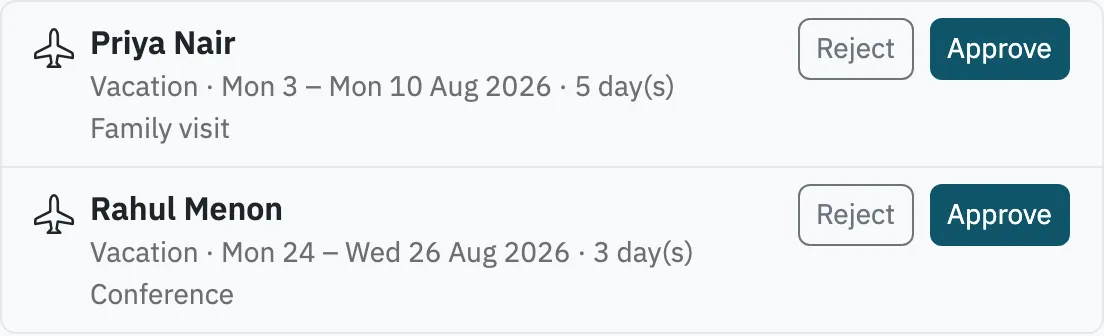
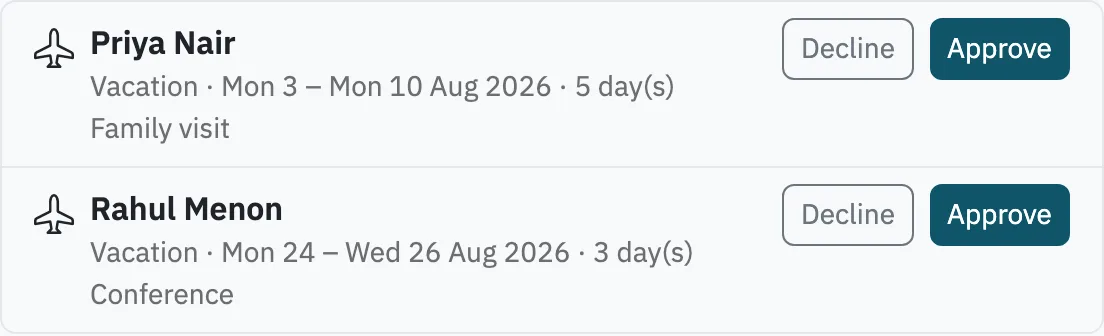
fix: say Decline, not Reject, in the leave approval UI
BRAND §3.2: the same stored value reads as Decline to a colleague. The
approve/decline button and dialog, the Declined status badge, the toast,
the admin notification label and the employee email now say Decline; the
REJECTED value, URLs and codes are unchanged.

Regenerate the site and README screenshots to match, and trim the README:
drop the screenshot note and the public site screenshot (the generator no
longer captures it).

Changed region(s): [[0.7083, 0.5357, 0.8315, 0.744], [0.7083, 0.0298, 0.8315, 0.2381]]

diff --git a/src/main/resources/templates/leave/for-action.html b/src/main/resources/templates/leave/for-action.html
@@ -33,7 +33,7 @@
                   th:hx-get="@{/for-action/leave-requests/{id}/reject-form(id=${row.requestId})}"
                   hx-target="#rejectLeaveModalBody" hx-swap="innerHTML"
                   th:text="#{leave.for-action.reject}">
-            Reject
+            Decline
           </button>
           <button type="button" class="btn btn-primary btn-sm"
                   th:hx-post="@{/for-action/leave-requests/{id}/approve(id=${row.requestId})}"
@@ -105,7 +105,7 @@
        shell in for-action.html, the same convention layout.html uses for #bookLeaveModalBody. */-->
 <th:block th:fragment="rejectForm">
   <div class="modal-header">
-    <h5 class="modal-title" id="rejectLeaveModalLabel" th:text="#{leave.for-action.reject-request}">Reject request</h5>
+    <h5 class="modal-title" id="rejectLeaveModalLabel" th:text="#{leave.for-action.reject-request}">Decline request</h5>
     <button type="button" class="btn-close" data-bs-dismiss="modal" th:aria-label="#{common.aria.close}"></button>
   </div>
   <form th:object="${rejectForm}" th:hx-post="@{/for-action/leave-requests/{id}/reject(id=${rejectRequestId})}"
@@ -116,7 +116,7 @@
     </div>
     <div class="modal-footer">
       <button type="button" class="btn btn-outline-secondary btn-sm" data-bs-dismiss="modal" th:text="#{common.action.cancel}">Cancel</button>
-      <button class="btn btn-danger btn-sm" type="submit" th:text="#{leave.for-action.reject-request}">Reject request</button>
+      <button class="btn btn-danger btn-sm" type="submit" th:text="#{leave.for-action.reject-request}">Decline request</button>
     </div>
   </form>
 </th:block>

diff --git a/src/test/java/com/caderly/caderlyhr/e2e/SiteScreenshotsE2ETest.java b/src/test/java/com/caderly/caderlyhr/e2e/SiteScreenshotsE2ETest.java
@@ -125,12 +125,6 @@ class SiteScreenshotsE2ETest extends PlaywrightE2ETestBase {
                 readme.waitForLoadState(com.microsoft.playwright.options.LoadState.NETWORKIDLE);
                 readme.screenshot(new Page.ScreenshotOptions().setPath(dir.resolve(screen.getKey())));
             }
-            readme.navigate("http://localhost:" + port + "/");
-            readme.waitForLoadState(com.microsoft.playwright.options.LoadState.NETWORKIDLE);
-            readme.screenshot(new Page.ScreenshotOptions()
-                    .setPath(dir.resolve("public-home.jpg"))
-                    .setType(com.microsoft.playwright.options.ScreenshotType.JPEG)
-                    .setQuality(85));
             System.out.println("README-SHOTS written to " + dir);
         }
     }

diff --git a/src/main/java/com/caderly/caderlyhr/timeoff/LeaveRequestStatus.java b/src/main/java/com/caderly/caderlyhr/timeoff/LeaveRequestStatus.java
@@ -11,12 +11,15 @@ public enum LeaveRequestStatus {
     REJECTED,
     CANCELLED;
 
-    /** Display label for UI status badges. */
+    /**
+     * Display label for UI status badges. REJECTED reads "Declined" (BRAND §3.2): same stored value,
+     * a kinder word to read about a colleague.
+     */
     public String label() {
         return switch (this) {
             case PENDING -> "Pending";
             case APPROVED -> "Approved";
-            case REJECTED -> "Rejected";
+            case REJECTED -> "Declined";
             case CANCELLED -> "Cancelled";
         };
     }

diff --git a/src/main/java/com/caderly/caderlyhr/web/LeaveApprovalController.java b/src/main/java/com/caderly/caderlyhr/web/LeaveApprovalController.java
@@ -156,7 +156,7 @@ class LeaveApprovalController {
                             decider.name(),
                             decider.isAdmin(),
                             form.decisionNote());
-            toast(response, "toast.leave-request.rejected", "Request rejected");
+            toast(response, "toast.leave-request.rejected", "Request declined");
             addPendingAndCompleted(model, fresh, principal.userId());
             return "leave/for-action :: pendingListAndCounts";
         }

diff --git a/README.md b/README.md
@@ -15,13 +15,7 @@ A multi-tenant HR information system with leave management. Each company gets it
     <td><img src="docs/screenshots/employees.png" alt="Employee directory"></td>
     <td><img src="docs/screenshots/reports.png" alt="Leave utilization report with chart"></td>
   </tr>
-  <tr>
-    <td colspan="2"><img src="docs/screenshots/public-home.jpg" alt="Public site"></td>
-  </tr>
 </table>
-
-*Screenshots use fictional data. To refresh them (and the public site's product screenshots), run
-`./mvnw test -Dtest=SiteScreenshotsE2ETest -DsiteScreenshots=true` (needs `cwebp` on the PATH).*
 
 ## What it does
 
